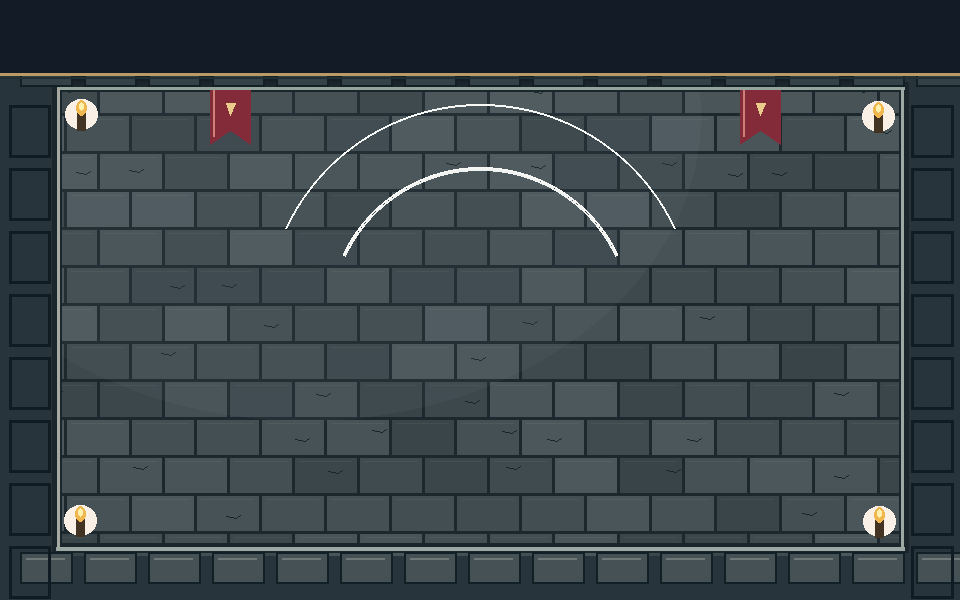
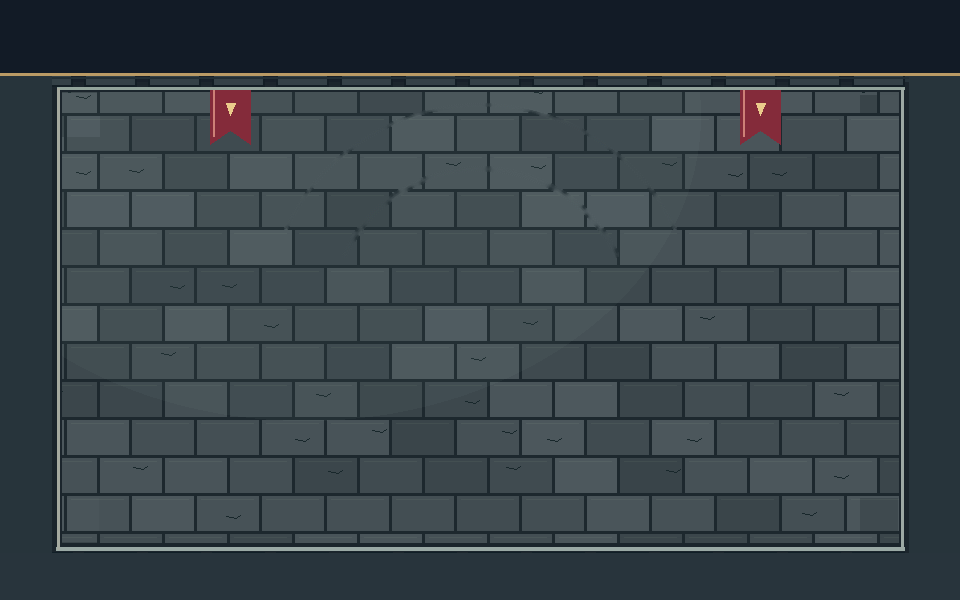
Simplify UI with a dimmed arena background
- Clean arena_bg.png (remove candles, arcs, and side rectangles)
- Use arena_bg.png with a dark layer for the menu, help, and end screens
- Make MenuButton draw itself, so button images are not needed
- Rewrite MenuWorld, HelpWorld, and EndWorld to use text labels
- Delete unused menu, help, end, and button images

diff --git a/KnightArena_Prototype/MenuButton.java b/KnightArena_Prototype/MenuButton.java
@@ -1,25 +1,35 @@
 import greenfoot.*;
 
-/** Clickable image-based button used in menus. */
+/** Simple clickable button. It draws itself, so no button images are needed. */
 public class MenuButton extends Actor {
+    private static final int WIDTH = 260;
+    private static final int HEIGHT = 56;
+
     private final String action;
+    private final String text;
     private boolean hovering = false;
 
     public MenuButton(String action) {
         this.action = action;
-        setImage("button_" + action + ".png");
+        this.text = getLabel(action);
+        draw(false);
     }
 
     public void act() {
+        // Highlight the button when the mouse is on it
         MouseInfo info = Greenfoot.getMouseInfo();
-        boolean over = info != null
-            && Math.abs(info.getX() - getX()) < 147
-            && Math.abs(info.getY() - getY()) < 28;
-        if (over != hovering) {
-            hovering = over;
-            setImage("button_" + action + (hovering ? "_hover" : "") + ".png");
+        if (info != null) {
+            boolean over = Math.abs(info.getX() - getX()) < WIDTH / 2
+                && Math.abs(info.getY() - getY()) < HEIGHT / 2;
+            if (over != hovering) {
+                hovering = over;
+                draw(hovering);
+            }
         }
-        if (!Greenfoot.mouseClicked(this)) return;
+
+        if (!Greenfoot.mouseClicked(this)) {
+            return;
+        }
 
         if (action.equals("play") || action.equals("again")) {
             Greenfoot.setWorld(new ArenaWorld());
@@ -28,5 +38,38 @@ public class MenuButton extends Actor {
         } else if (action.equals("back") || action.equals("menu")) {
             Greenfoot.setWorld(new MenuWorld());
         }
+    }
+
+    private String getLabel(String action) {
+        if (action.equals("play")) {
+            return "PLAY";
+        } else if (action.equals("again")) {
+            return "PLAY AGAIN";
+        } else if (action.equals("how")) {
+            return "HOW TO PLAY";
+        } else if (action.equals("back")) {
+            return "BACK";
+        }
+        return "MAIN MENU";
+    }
+
+    private void draw(boolean highlighted) {
+        GreenfootImage image = new GreenfootImage(WIDTH, HEIGHT);
+
+        // Box and outline
+        if (highlighted) {
+            image.setColor(new Color(90, 110, 120));
+        } else {
+            image.setColor(new Color(55, 70, 80));
+        }
+        image.fillRect(0, 0, WIDTH, HEIGHT);
+        image.setColor(new Color(240, 230, 200));
+        image.drawRect(0, 0, WIDTH - 1, HEIGHT - 1);
+
+        // Text in the middle
+        GreenfootImage label = new GreenfootImage(text, 26, Color.WHITE, new Color(0, 0, 0, 0));
+        image.drawImage(label, (WIDTH - label.getWidth()) / 2, (HEIGHT - label.getHeight()) / 2);
+
+        setImage(image);
     }
 }

diff --git a/KnightArena_Prototype/EndWorld.java b/KnightArena_Prototype/EndWorld.java
@@ -4,17 +4,22 @@ import greenfoot.*;
 public class EndWorld extends World {
     public EndWorld(boolean victory, int score, int wavesCleared) {
         super(960, 600, 1);
-        setBackground("end_bg.png");
-        
+
+        // Arena picture with a dark layer on top so the text is easy to read
+        GreenfootImage bg = new GreenfootImage("arena_bg.png");
+        bg.setColor(new Color(0, 0, 0, 170));
+        bg.fillRect(0, 0, 960, 600);
+        setBackground(bg);
+
         String title = victory ? "VICTORY!" : "GAME OVER";
         Color titleColor = victory ? new Color(245, 218, 142) : new Color(237, 128, 125);
         addObject(new TextLabel(title, 57, titleColor), 480, 155);
-        
+
         addObject(new TextLabel("FINAL SCORE   " + score, 30, new Color(240, 236, 215)), 480, 263);
         addObject(new TextLabel("WAVES CLEARED   " + wavesCleared + " / " + WaveManager.TOTAL_WAVES, 22,
             new Color(181, 208, 211)), 480, 315);
-            
-        addObject(new MenuButton("again"), 480, 375);
-        addObject(new MenuButton("menu"), 480, 451);
+
+        addObject(new MenuButton("again"), 480, 390);
+        addObject(new MenuButton("menu"), 480, 465);
     }
 }

diff --git a/KnightArena_Prototype/HelpWorld.java b/KnightArena_Prototype/HelpWorld.java
@@ -4,9 +4,26 @@ import greenfoot.*;
 public class HelpWorld extends World {
     public HelpWorld() {
         super(960, 600, 1);
-        
-        setBackground("help_bg.png");
-        
-        addObject(new MenuButton("back"), 480, 541);
+
+        // Arena picture with a dark layer on top so the text is easy to read
+        GreenfootImage bg = new GreenfootImage("arena_bg.png");
+        bg.setColor(new Color(0, 0, 0, 170));
+        bg.fillRect(0, 0, 960, 600);
+        setBackground(bg);
+
+        addObject(new TextLabel("HOW TO PLAY", 60, new Color(247, 230, 195)), 480, 150);
+
+        // One line of text per row. Add or remove lines here.
+        String[] lines = {
+            "MOVE:  WASD or arrow keys to move.",
+            "ATTACK:  Press SPACE to swing your sword.",
+            "SURVIVE:  Defeat every enemy to reach the next wave.",
+            "SCORE:  Each enemy is worth 100 points. Survive all " + WaveManager.TOTAL_WAVES + " waves!"
+        };
+        for (int i = 0; i < lines.length; i++) {
+            addObject(new TextLabel(lines[i], 24, Color.WHITE), 480, 250 + i * 60);
+        }
+
+        addObject(new MenuButton("back"), 480, 500);
     }
 }

diff --git a/KnightArena_Prototype/MenuWorld.java b/KnightArena_Prototype/MenuWorld.java
@@ -4,10 +4,19 @@ import greenfoot.*;
 public class MenuWorld extends World {
     public MenuWorld() {
         super(960, 600, 1);
-        
-        setBackground("menu_bg.png");
-        
-        addObject(new MenuButton("play"), 480, 360);
-        addObject(new MenuButton("how"), 480, 436);
+
+        // Arena picture with a dark layer on top so the text is easy to read
+        GreenfootImage bg = new GreenfootImage("arena_bg.png");
+        bg.setColor(new Color(0, 0, 0, 170));
+        bg.fillRect(0, 0, 960, 600);
+        setBackground(bg);
+
+        addObject(new TextLabel("KNIGHT ARENA", 72, new Color(230, 100, 100)), 480, 175);
+        addObject(new TextLabel("Survive the waves", 30, new Color(250, 223, 100)), 480, 235);
+
+        addObject(new MenuButton("play"), 480, 340);
+        addObject(new MenuButton("how"), 480, 415);
+
+        addObject(new TextLabel("WASD or arrows to move     SPACE to attack", 25, new Color(255, 255, 255)), 480, 500);
     }
 }
